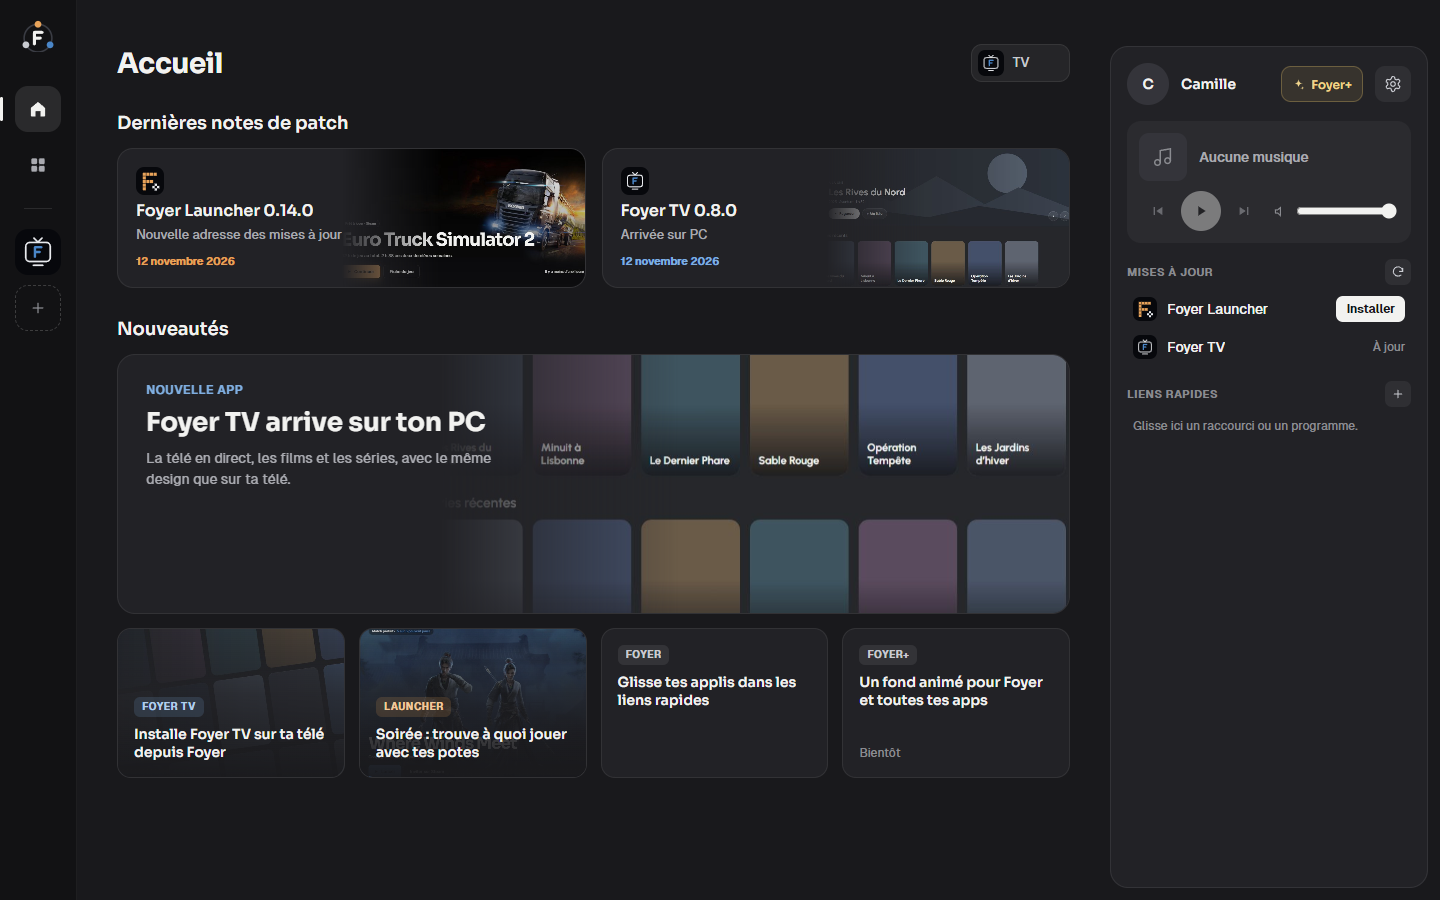
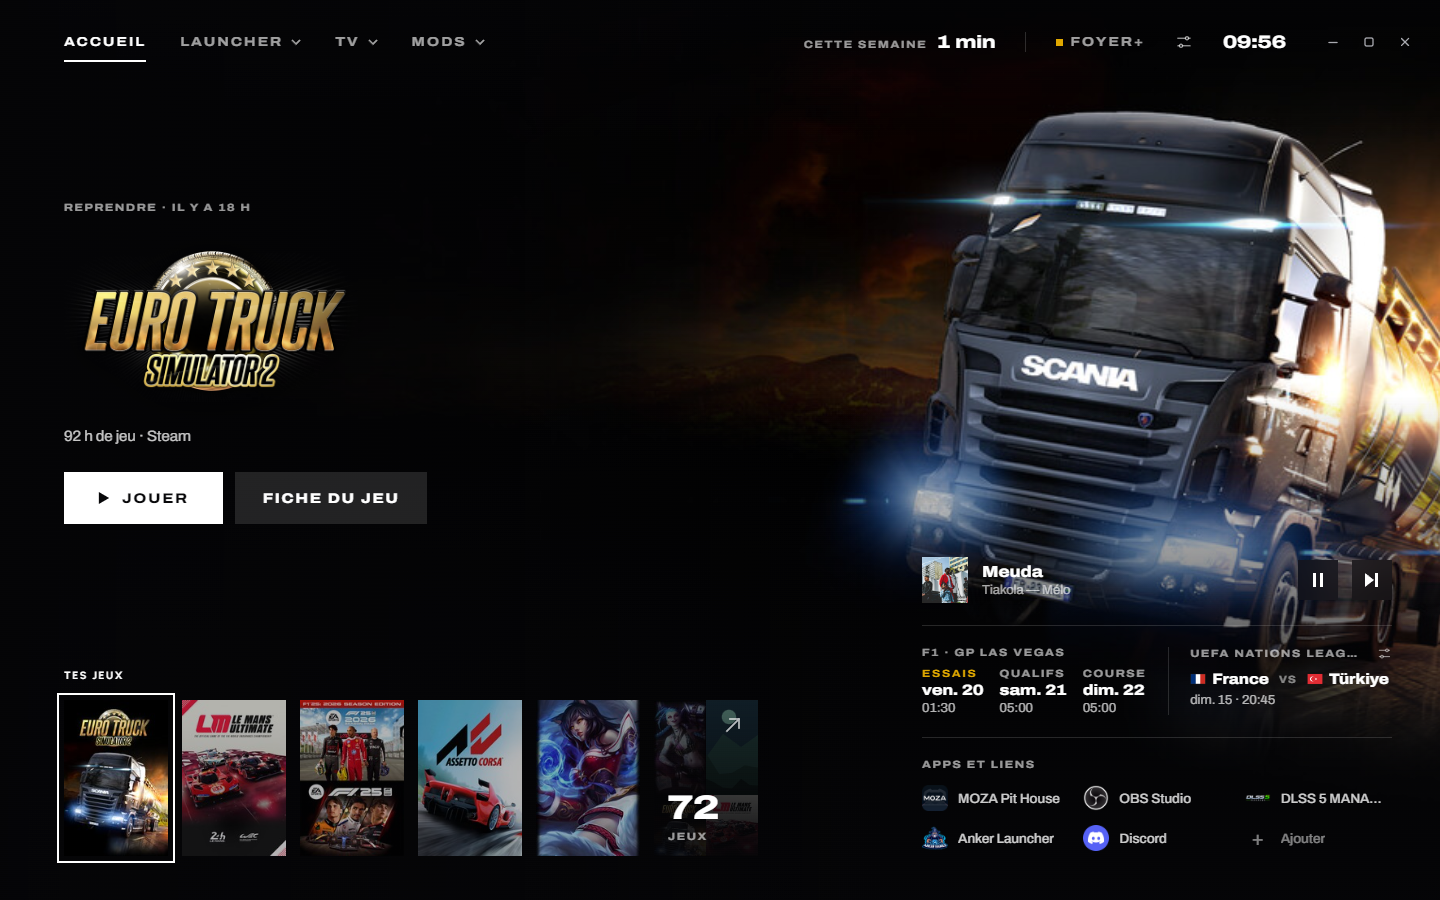
Page de Foyer 1.0 : l'app unique, captures réelles

diff --git a/README.md b/README.md
@@ -1,11 +1,15 @@
 <p align="center">
-  <img src="assets/banniere.png" alt="Foyer : toutes tes apps Foyer au même endroit. Installe, mets à jour et lance en un clic." width="100%">
+  <img src="assets/accueil.png" alt="L'accueil de Foyer : le jeu à reprendre en plein écran avec son logo, tes jeux en bas, et à droite la musique, la F1, le prochain match et tes apps" width="100%">
 </p>
 
+<h1 align="center">Foyer</h1>
+
+<p align="center"><b>Tes jeux, ta télé et tes mods. Une seule app.</b></p>
+
 <p align="center">
-  <a href="https://github.com/foyerapps/foyer/releases/latest"><img src="https://img.shields.io/github/v/release/foyerapps/foyer?label=version&style=for-the-badge&color=C9CBD1&labelColor=1B1C1F" alt="Dernière version"></a>
-  <img src="https://img.shields.io/badge/Windows-10%20%7C%2011-F2F2F0?style=for-the-badge&labelColor=1B1C1F" alt="Windows 10 et 11">
-  <img src="https://img.shields.io/badge/prix-gratuit-E8A35A?style=for-the-badge&labelColor=1B1C1F" alt="Gratuit">
+  <a href="https://github.com/foyerapps/foyer/releases/latest"><img src="https://img.shields.io/github/v/release/foyerapps/foyer?label=version&style=for-the-badge&color=F2F2F0&labelColor=050507" alt="Dernière version"></a>
+  <img src="https://img.shields.io/badge/Windows-10%20%7C%2011-F2F2F0?style=for-the-badge&labelColor=050507" alt="Windows 10 et 11">
+  <img src="https://img.shields.io/badge/prix-gratuit-E0A800?style=for-the-badge&labelColor=050507" alt="Gratuit">
 </p>
 
 <h3 align="center">
@@ -16,54 +20,59 @@
 
 ---
 
-**Foyer** est la maison de toutes les apps Foyer. Il les installe, les met à jour et les lance en un clic, et il réunit au même endroit ce que tu utilises tous les jours : tes liens rapides vers tes applis préférées et le contrôle de ta musique.
+## L'accueil
+
+Le dernier jeu lancé prend tout l'écran, avec son vrai logo. Un clic sur une jaquette et tout suit. À droite, ce qui compte en ce moment : la musique qui joue, le prochain Grand Prix de F1 (essais, qualifs, course), le prochain match de tes équipes et tes apps préférées. En haut, le temps de jeu de la semaine.
+
+Survole **Launcher**, **TV** ou **Mods** : leur menu s'ouvre, tu vas directement où tu veux.
+
+## Launcher : tous tes jeux
+
+Steam, Epic, Riot, GOG, Xbox, EA, Ubisoft et les jeux installés à la main, dans une seule bibliothèque. Ce que tu peux reprendre, les bons plans de ta wishlist, les jeux qui dorment depuis trop longtemps.
 
 <p align="center">
-  <img src="assets/accueil.png" alt="L'accueil de Foyer : les dernières notes de patch de chaque app, les nouveautés, et à droite le compte, la musique, les mises à jour et les liens rapides" width="100%">
+  <img src="assets/ecran-launcher.png" alt="L'accueil du Launcher : le jeu en cours, les jeux prêts à jouer, les bons plans et les jeux à relancer" width="100%">
 </p>
-
-## Tes apps, toujours à jour
-
-Chaque app installée a sa place dans la barre de gauche : survole son icône pour la lancer. À l'accueil, les **notes de patch** de chaque app te disent ce qui a changé. Les mises à jour arrivent toutes seules, en un clic.
 
 <p align="center">
-  <img src="assets/apps.png" alt="Toutes les apps : Foyer Launcher, Foyer TV pour PC et Foyer TV pour Android TV, avec Installer et Lancer" width="100%">
+  <img src="assets/ecran-jeux.png" alt="La bibliothèque : le jeu survolé en grand, ses heures de jeu, et toutes les jaquettes" width="49%">
+  <img src="assets/ecran-decouvrir.png" alt="Découvrir : des jeux choisis d'après ce que tu aimes, avec leurs promos" width="49%">
 </p>
 
-## Une page par app
+**Soirée** croise ta bibliothèque et celles de tes potes pour trouver à quoi jouer ensemble, même ce qui est gratuit pour tout le monde. **Promotions** suit les prix de ta wishlist.
 
-Une grande image, un gros bouton Lancer, la version, et toutes les notes de patch. Le menu ⋯ ouvre son dossier ou la désinstalle proprement.
+## TV : ton abonnement IPTV
+
+Les chaînes en direct avec le guide des programmes, ce qui passe en ce moment, les films et les séries avec leur carrousel « À la une », ta liste, la recherche. Sur le PC, dans Foyer ou dans sa propre fenêtre, et sur ta **télé Android** : Foyer l'installe et la met à jour en Wi-Fi, depuis l'onglet TV.
+
+Foyer TV ne fournit aucune chaîne : il lit l'abonnement IPTV que tu as déjà (adresse, identifiant, mot de passe).
+
+## Mods : glisse, c'est installé
+
+Glisse un mod dans la fenêtre, il part au bon endroit : **Assetto Corsa**, **Le Mans Ultimate**, **F1 25** (via Swofty) et **Euro Truck Simulator 2**.
 
 <p align="center">
-  <img src="assets/page-app.png" alt="La page de Foyer Launcher : image, bouton, version et notes de patch" width="100%">
+  <img src="assets/ecran-mods.png" alt="Mods pour Le Mans Ultimate : zone où glisser un mod et conseils" width="100%">
 </p>
-
-## Les apps Foyer
-
-| | App | Pour quoi faire | Télécharger seule |
-|---|---|---|---|
-| <img src="assets/launcher.png" width="40" alt=""> | **[Foyer Launcher](https://github.com/foyerapps/foyer-launcher)** | Tous tes jeux PC (Steam, Epic, Riot, GOG…) et tes potes, au même endroit. La Soirée te dit à quoi jouer ensemble. | [Foyer-Setup.exe](https://github.com/foyerapps/foyer-launcher/releases/latest/download/Foyer-Setup.exe) |
-| <img src="https://raw.githubusercontent.com/foyerapps/foyer-tv/main/assets/icon.png" width="40" alt=""> | **[Foyer TV](https://github.com/foyerapps/foyer-tv)** | Ton abonnement IPTV sur ton PC et sur ta télé Android : chaînes, guide des programmes, films et séries. | [FoyerTV-Setup.exe](https://github.com/foyerapps/foyer-tv/releases/latest/download/FoyerTV-Setup.exe) · [FoyerTV.apk](https://github.com/foyerapps/foyer-tv/releases/latest/download/FoyerTV.apk) |
-| <img src="assets/mods.png" width="40" alt=""> | **[Foyer Mods](https://github.com/foyerapps/foyer-mods)** | Glisse un mod, il s’installe au bon endroit : Assetto Corsa, Le Mans Ultimate, F1 25 (via Swofty), Euro Truck Simulator 2. | [Foyer-Mods-Setup.exe](https://github.com/foyerapps/foyer-mods/releases/latest/download/Foyer-Mods-Setup.exe) |
-
-Avec Foyer, tu n'as rien à télécharger toi-même : tout s'installe depuis l'écran **Toutes les apps**, même Foyer TV sur ta télé Android, en Wi-Fi.
 
 ## Foyer+
 
-Tout ce qui est utile reste gratuit. **Foyer+**, c'est le bonus, pour soutenir le projet sur **[Patreon](https://www.patreon.com/cw/FoyerApps)** : un fond animé à l'image de tes apps ou de ta propre image, des ambiances (neige, lucioles, braises…), un mode soirée qui tamise tout après 22 h, ta couleur, des thèmes de barre, et des thèmes à partager avec tes potes.
+Tout ce qui est utile reste gratuit. **Foyer+**, c'est le bonus pour soutenir le projet sur **[Patreon](https://www.patreon.com/cw/FoyerApps)** : un fond animé (l'univers de tes jeux, de la TV, ou ta propre image ou vidéo), des ambiances (neige, lucioles, braises…), un mode soirée qui tamise tout après 22 h, ta couleur, et tes statistiques détaillées.
 
 <p align="center">
-  <img src="assets/foyer-plus.png" alt="Foyer+ : choix du fond animé, ambiance, couleur et thème de la barre" width="49%">
-  <img src="assets/fond-anime.png" alt="L'accueil de Foyer avec un fond animé et des braises" width="49%">
+  <img src="assets/ecran-foyer-plus.png" alt="Foyer+ : choix du fond animé, ambiance, couleur" width="100%">
 </p>
 
 ## Installer
 
 1. Télécharge **[Foyer-Hub-Setup.exe](https://github.com/foyerapps/foyer/releases/latest/download/Foyer-Hub-Setup.exe)** et lance-le : Foyer s'installe et s'ouvre tout seul.
 2. Si Windows affiche « Windows a protégé votre ordinateur », clique sur **Informations complémentaires**, puis **Exécuter quand même** (Foyer n'est pas encore signé, c'est un petit projet indépendant).
+3. Au premier lancement, choisis ce dont tu as besoin : Launcher, TV, Mods. Le reste ne tourne pas.
 
-Le fichier `Foyer-Hub-Setup.exe.sha256` de chaque version contient l'empreinte du setup, pour vérifier qu'il n'a pas été modifié.
+Les mises à jour arrivent toutes seules. Le fichier `Foyer-Hub-Setup.exe.sha256` de chaque version contient l'empreinte du setup, pour vérifier qu'il n'a pas été modifié.
+
+**Tu avais Foyer Launcher, Foyer TV pour PC ou Foyer Mods ?** Ils sont maintenant dans Foyer. Installe Foyer, puis désinstalle-les depuis les Paramètres de Windows. L'app Foyer TV pour la télé Android, elle, reste une app à part : Foyer l'installe pour toi.
 
 ## Vie privée
 
-Tes données restent sur ton PC. Pas de pub, pas de revente de données. La connexion Patreon se fait sur le site de Patreon : Foyer ne voit jamais ton mot de passe.
+Tes données restent sur ton PC. Pas de pub, pas de revente de données. La connexion Patreon et Steam se fait sur leurs sites : Foyer ne voit jamais ton mot de passe. Tes identifiants IPTV sont chiffrés sur ton PC.
